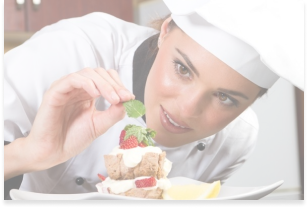
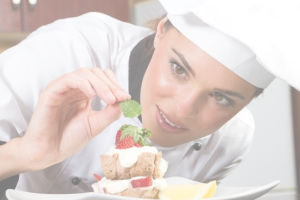
Move orders; Home

diff --git a/src/components/business/business.view.tsx b/src/components/business/business.view.tsx
@@ -1,0 +1,28 @@
+import * as React from 'react';
+import arrow from '../../images/flow_arrow.png';
+
+interface BusinessProps {
+  title: string;
+}
+
+export default class Business extends React.Component<BusinessProps, any> {
+  render() {
+    const children = this.props.children;
+    return(
+      <div className='Business'>
+        <a className='Business__title__container'>{this.props.title}</a>
+        <div className='Business__flow'>
+          {React.Children.map(children, child => {
+              return (
+                <div className='Business__flow__container'>
+                  {child}
+                  <img className='Business__flow__arrow' src={arrow}/>
+                </div>
+              );
+            })
+          }
+        </div>
+      </div>
+    );
+  }
+}

diff --git a/src/modules/orders/general/orders.controller.tsx b/src/modules/orders/general/orders.controller.tsx
@@ -1,9 +1,9 @@
 import * as React from 'react';
 import OrdersView from './orders.view';
-import { Order } from "../../../../model/order.model";
-import { getOrders } from '../../../../data/orders.data';
+import { Order } from "../../../model/order.model";
+import { getOrders } from '../../../data/orders.data';
 import prato1 from '../../../../images/mock/prato1.png';
-import OrderCell from '../../../../components/order/order-cell.component';
+import OrderCell from '../../../components/order/order-cell.component';
 
 export default class OrdersController extends React.Component<any, any> {
   constructor(props: any) {

diff --git a/src/App.js b/src/App.js
@@ -6,8 +6,8 @@ import HomePage from './modules/home/home.page'
 import { Route, Switch } from 'react-router-dom';
 import './app.css';
 import Footer from './components/footer/footer.component';
-import OrderDetailPage from './modules/menus/orders/details/order-detail.page';
-import OrdersPage from './modules/menus/orders/general/orders.page';
+import OrderDetailPage from './modules/orders/details/order-detail.page';
+import OrdersPage from './modules/orders/general/orders.page';
 import AddMenuPage from './modules/menus/add/add-menu.page';
 
 class App extends React.Component {

diff --git a/src/modules/orders/details/order-detail.view.tsx b/src/modules/orders/details/order-detail.view.tsx
@@ -1,7 +1,7 @@
 import * as React from 'react';
-import prato3 from '../../../../images/mock/prato3.png';
+import prato3 from '../../../images/mock/prato3.png';
 import './order-detail.css';
-import ic_prato from '../../../../images/ic_prato.png';
+import ic_prato from '../../../images/ic_prato.png';
 
 export default class OrderDetailView extends React.Component<any, any> {
   private renderDetails(title: string, description: string, icon: any): any {

diff --git a/src/components/business-card/business-card.view.tsx b/src/components/business-card/business-card.view.tsx
@@ -1,0 +1,17 @@
+import * as React from 'react';
+
+interface BusinessCardProps {
+  img: any;
+  text: string;
+}
+
+export default class BussinessCard extends React.Component<BusinessCardProps, any> {
+  render() {
+    return(
+      <div className='business-card'>
+        <img className='business-card__img' src={this.props.img}/>
+        <a className='business-card__text'/>
+      </div>
+    );
+  }
+}

diff --git a/src/modules/home/home-card/home-card.component.tsx b/src/modules/home/home-card/home-card.component.tsx
@@ -9,7 +9,7 @@ interface HomeCardProps {
 export default class HomeCard extends React.Component<HomeCardProps, any> {
   render() {
     return (
-      <div className='home-card' style={{backgroundImage: this.props.img}}>
+      <div className='home-card' style={{backgroundImage: `url(${this.props.img})`}}>
         <a className='home-card__text'>{this.props.text}</a>
       </div>
     )

diff --git a/src/modules/orders/general/orders.view.tsx b/src/modules/orders/general/orders.view.tsx
@@ -1,7 +1,7 @@
 import * as React from 'react';
 import './orders.css';
-import OrderCell from '../../../../components/order/order-cell.component';
-import { Order } from '../../../../model/order.model';
+import OrderCell from '../../../components/order/order-cell.component';
+import { Order } from '../../../model/order.model';
 
 interface OrdersViewProps {
   orders: Order[];

diff --git a/public/index.html b/public/index.html
@@ -22,7 +22,7 @@
       work correctly both with client-side routing and a non-root public URL.
       Learn how to configure a non-root public URL by running `npm run build`.
     -->
-    <title>React App</title>
+    <title>Chef em Casa</title>
   </head>
   <body>
     <noscript>You need to enable JavaScript to run this app.</noscript>

diff --git a/src/components/business-card/business-card.css b/src/components/business-card/business-card.css
@@ -1,0 +1,19 @@
+.business-card {
+  width: 250px;
+  height: 160px;
+  display: flex;
+  justify-content: center;
+}
+
+.business-card__img {
+  width: 100px;
+  height: 100px;
+}
+
+.business-card__text {
+  width: 250px;
+  height: 50px;
+  color: black;
+  font-family: "Just Another Hand";
+  font-size: 48px;
+}

diff --git a/src/modules/home/home-card/home-card.css b/src/modules/home/home-card/home-card.css
@@ -4,5 +4,13 @@
   background-repeat: no-repeat;
   background-size: cover;
   background-color: black;
+  display: flex;
+  justify-content: center;
+  align-items: center;
 }
 
+.home-card__text {
+  color: white;
+  font-size: 48px;
+  font-family: 'Just Another Hand'
+}
